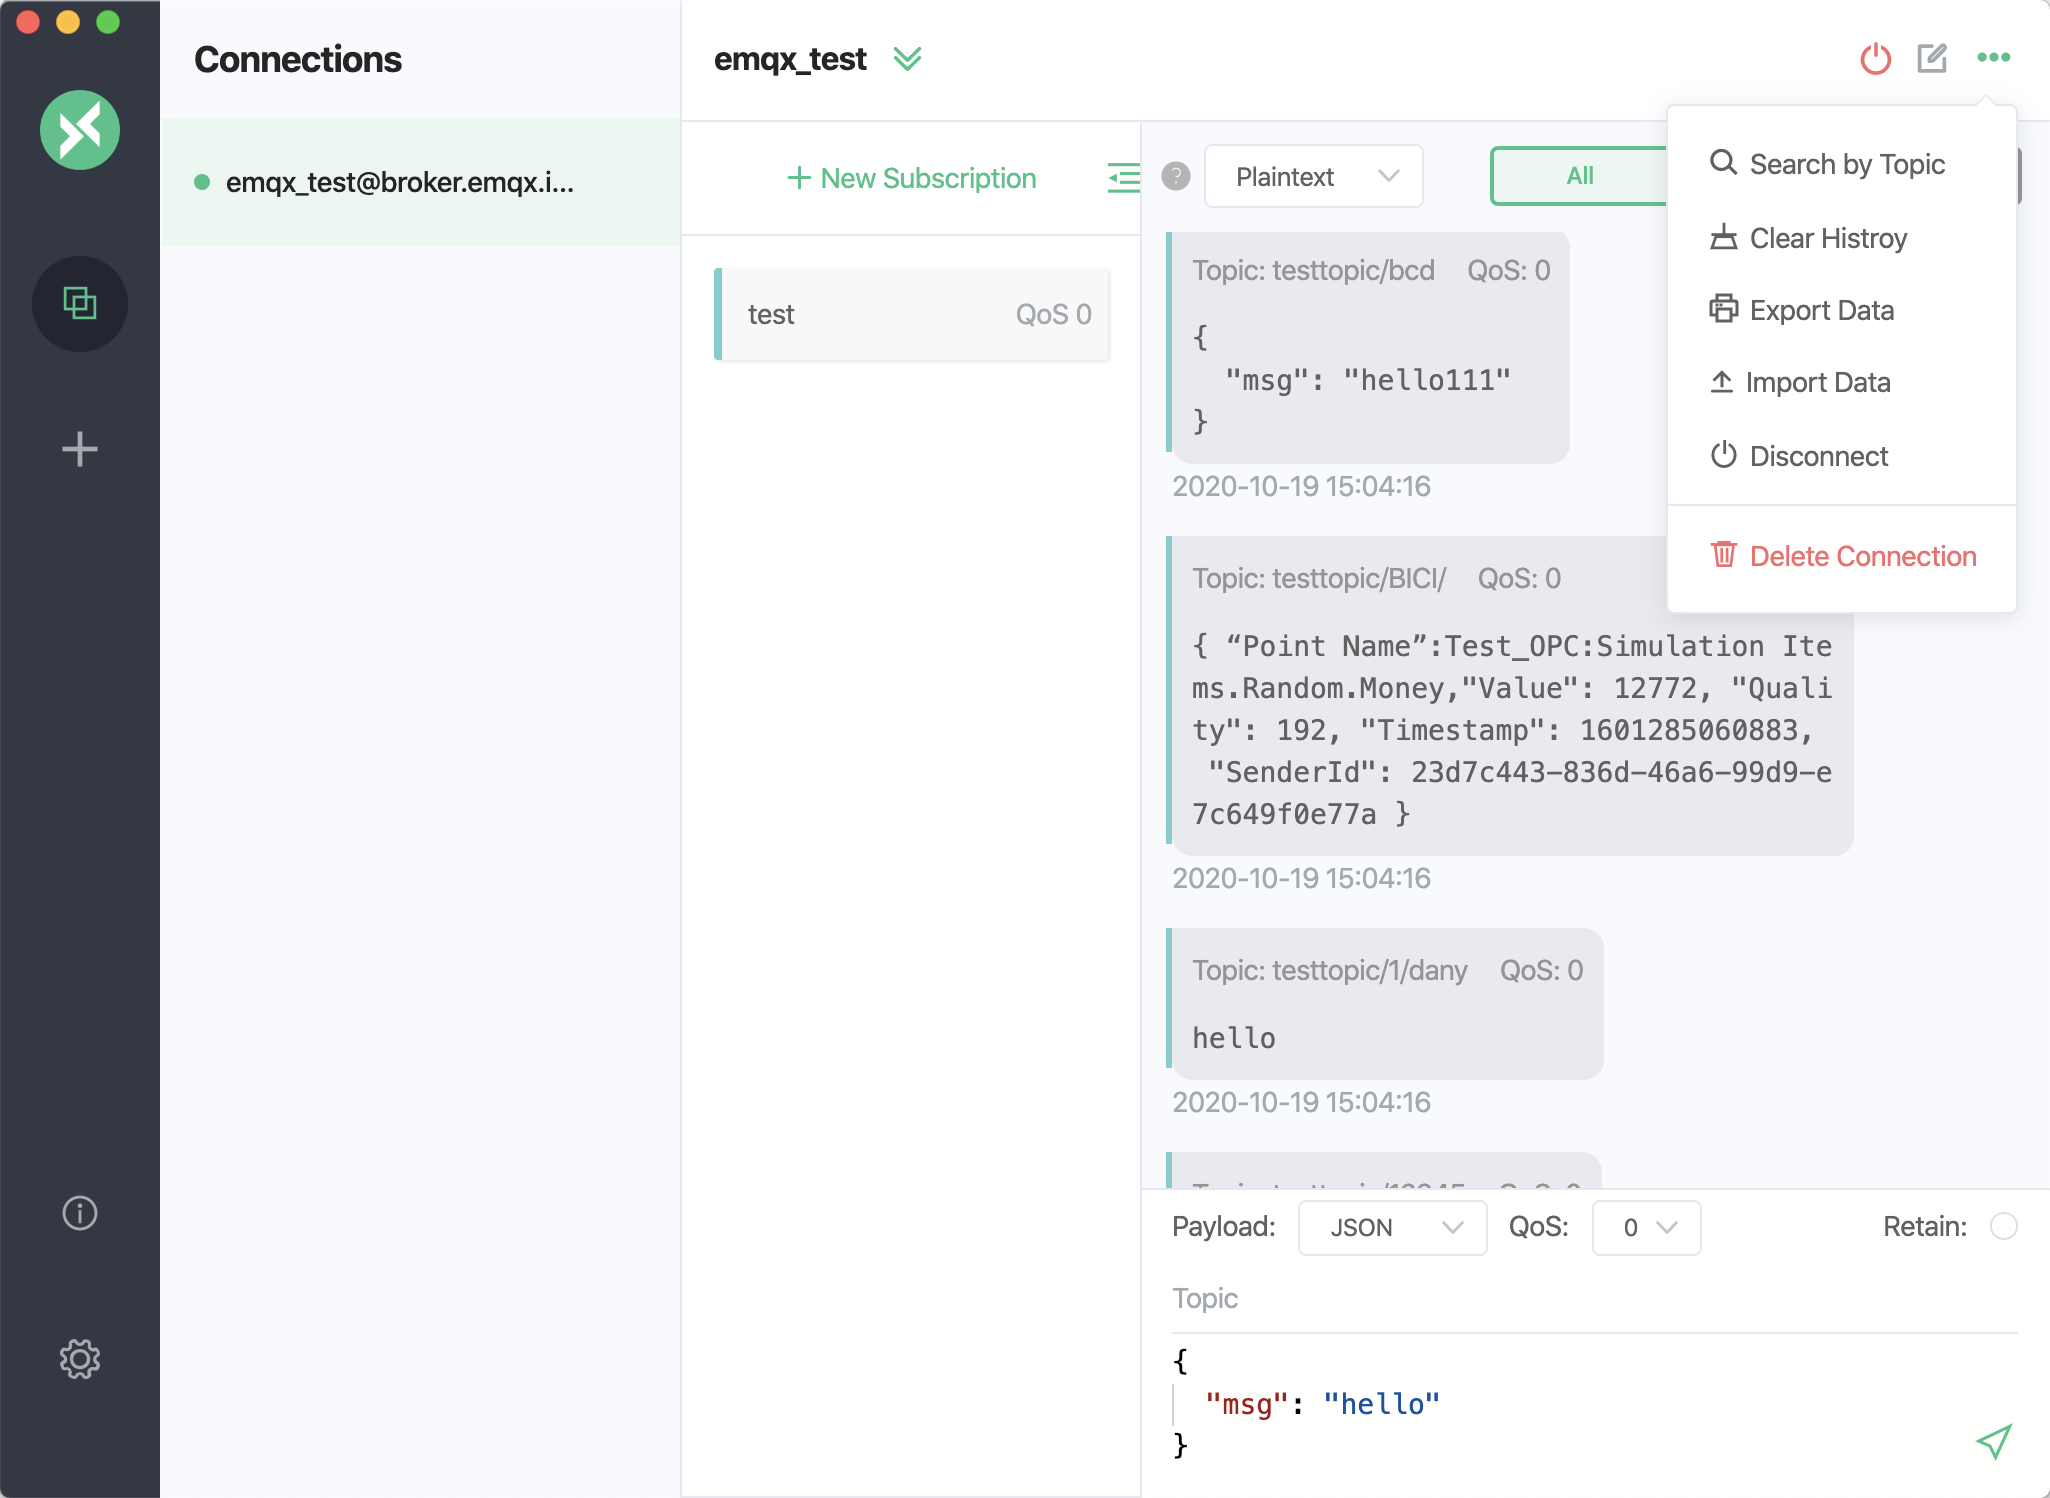
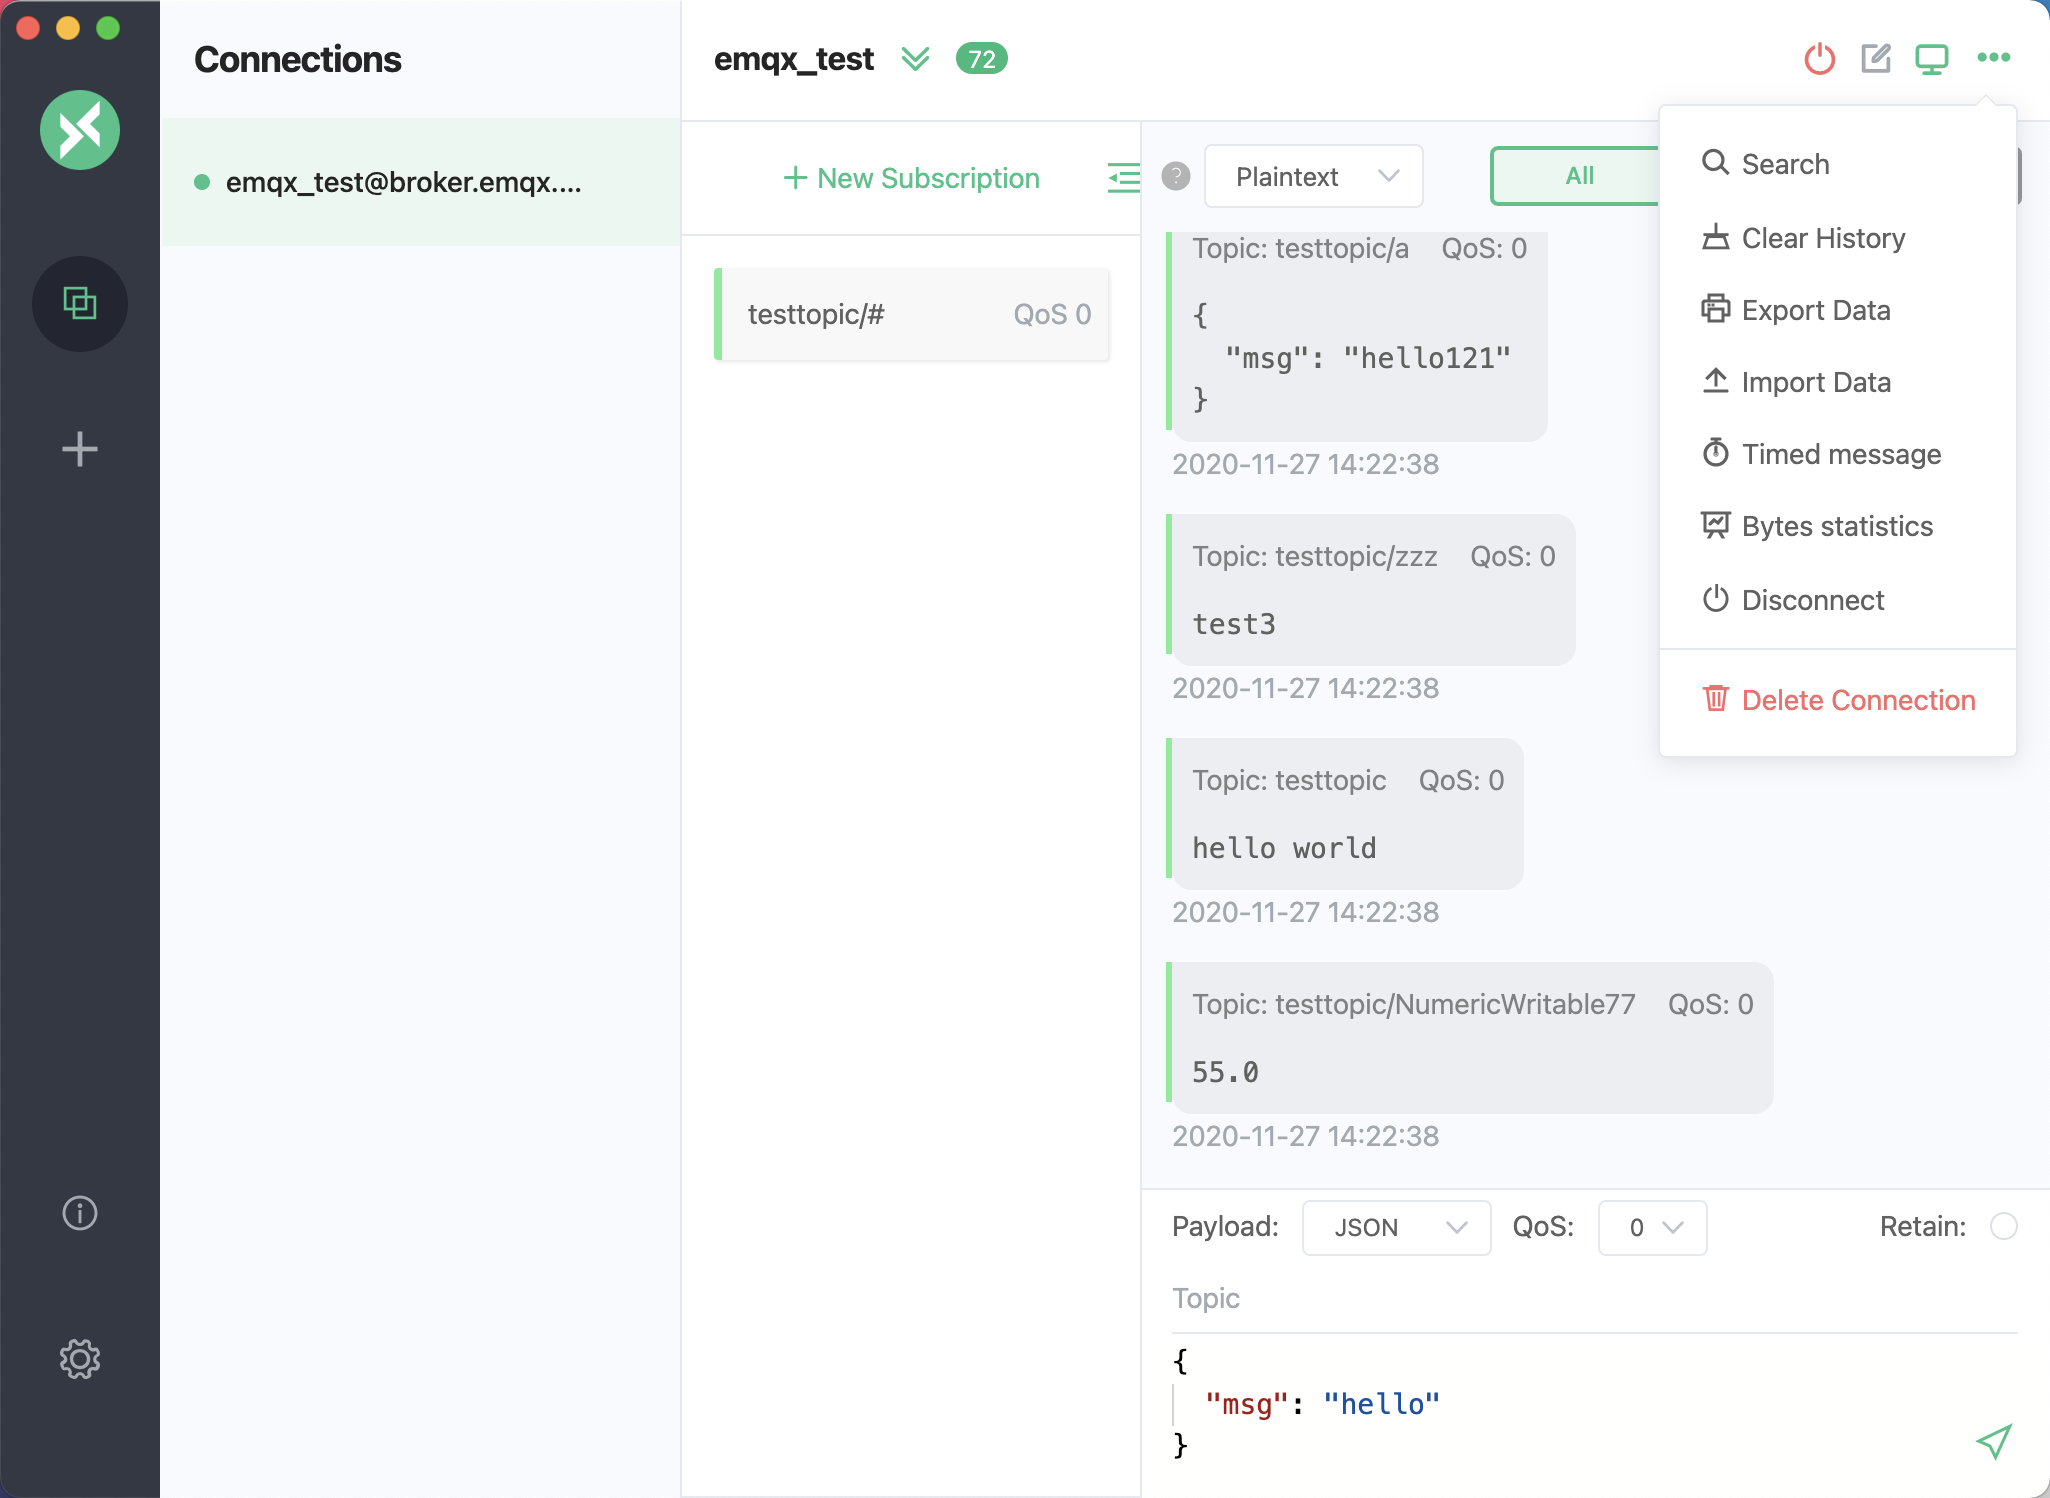
docs(manual): update manual

diff --git a/docs/manual.md b/docs/manual.md
@@ -183,7 +183,7 @@ In the settings page, you can choose to click the data backup and data recovery 
 
 1. Connection operation
 
-   By clicking the action bar button at the top, you can quickly disconnect, delete the current connection, import and export of current data, etc.
+   By clicking the action bar button at the top, you can quickly disconnect, delete the current connection, import and export of current data, timed message and bytes statistics etc.
 
 ![mqttx-connection](../assets/mqttx-connection.png)
 
@@ -191,7 +191,7 @@ In the settings page, you can choose to click the data backup and data recovery 
 
    Through the `All`,`Received`, `Published` buttons in the upper right corner of the message bar, you can filter out all messages, received messages and published messages.
 
-Click the action bar button at the top and select the `Search`  item, or use the shortcut key. MacOS users can use the command + f shortcut and Other users can use the control + f shortcut  to open the `Topic` search function, the fuzzy query of topics is supported.
+Click the action bar button at the top and select the `Search`  item, or use the shortcut key. MacOS users can use the command + f shortcut and Other users can use the control + f shortcut  to open the `Topic` search function, the fuzzy query of topics and payload is supported.
 
 Click on the action bar button at the top and select the `Clear History` item, you can quickly clear the messages sent and received by the current connection.
 
@@ -209,9 +209,19 @@ Click on the action bar button at the top and select the `Clear History` item, y
 
 5. Multi-window
 
-    In the connection list, right-click and select `New window` to create a new window for the connection. In the new window, you can also connect, subscribe to topics, publish and receive messages, etc. If there is a connection between multiple connections created, or you need to view messages received at the same time, you can create multiple view windows and view them at the same time.
+    In the connection list, right-click and select `New window` to create a new window for the connection. In the new window, you can also connect, subscribe to topics, publish and receive messages, etc. If there is a connection between multiple connections created, or you need to view messages received at the same time, you can create multiple view windows and view them at the same time. After v1.4.1, users can also click the window button at the top to quickly create a new window.
+
+![mqttx-window](../assets/mqttx-window.png)
 
 ![mqttx-muti-window](../assets/mqttx-muti-window.png)
+
+6. Bytes statistics
+
+    In the drop-down menu in the upper right corner, you can click on the `Bytes statistics` item, MQTT X will automatically subscribe to the system topic, and can display the simple `Bytes statistics` chart, version and uptime of the MQTT Broker on the page.
+
+    > By default, only MQTT clients on localhost is allowed to subscribe to the $ SYS topic. Please refer to build-in ACL to modify the ACL rules for publish and subscription.
+
+![mqttx-bytes](../assets/mqttx-bytes.png)
 
 ## Development Guide
 

diff --git a/docs/manual-cn.md b/docs/manual-cn.md
@@ -183,7 +183,7 @@ sudo snap install mqttx
 
 1. 连接操作
 
-    点击顶部的操作栏按钮，可以快速断开连接，删除当前连接，当前数据导入导出等。
+    点击顶部的操作栏按钮，可以快速断开连接，删除当前连接，当前数据导入导出，定时消息，流量统计等。
 
 ![mqttx-connection](../assets/mqttx-connection.png)
 
@@ -192,7 +192,7 @@ sudo snap install mqttx
     在消息栏右上角的 `All`，`Received`， `Published` 按钮可以过滤出
     全部消息，已接收的消息，和已发布的消息。
 
-    点击顶部的操作栏按钮，选择 `Search` 项，或使用快捷键，macOS 用户可以使用 `command + f` 快捷键，其它用户可以使用 `control + f` 快捷键，来打开按 `Topic` 搜索的的功能，支持主题的模糊查询。
+    点击顶部的操作栏按钮，选择 `Search` 项，或使用快捷键，macOS 用户可以使用 `command + f` 快捷键，其它用户可以使用 `control + f` 快捷键，来打开按 `Topic` 搜索的的功能，支持主题和消息内容的模糊查询。
 
     点击顶部的操作栏按钮，选择 `Clear History` 项，可以快速清空当前连接所发送和接收的消息。
 
@@ -210,9 +210,18 @@ sudo snap install mqttx
 
 5. 多窗口
 
-    在连接列表中，右键点击，选择新建窗口，为该连接创建新窗口。在新窗口中，同样可以进行连接，订阅主题，发布和接受消息等。如果当创建的多个连接之间存在某种联系时，或需要查看同时接受到的消息，可以新建多个视图窗口，同时进行查看。
+    在连接列表中，右键点击，选择新建窗口，为该连接创建新窗口。在新窗口中，同样可以进行连接，订阅主题，发布和接受消息等。如果当创建的多个连接之间存在某种联系时，或需要查看同时接受到的消息，可以新建多个视图窗口，同时进行查看。在 v1.4.1 版本以后，用户还可点击顶部的窗口按钮，快速新建窗口。
+
+![mqttx-window](../assets/mqttx-window.png)
 
 ![mqttx-muti-window](../assets/mqttx-muti-window.png)
+
+6. 流量统计
+
+    在右上角的下拉菜单中，可点击流量统计项，MQTT X 会自动订阅系统主题，并可以在页面中展示该 Broker 下的简单的流量统计图表，运行版本和运行时间。
+    > EMQ X 默认只允许本机的 MQTT 客户端订阅 $SYS 主题，请参照 内置 ACL 修改发布订阅 ACL 规则。
+
+![mqttx-bytes](../assets/mqttx-bytes.png)
 
 ## 开发指南
 
